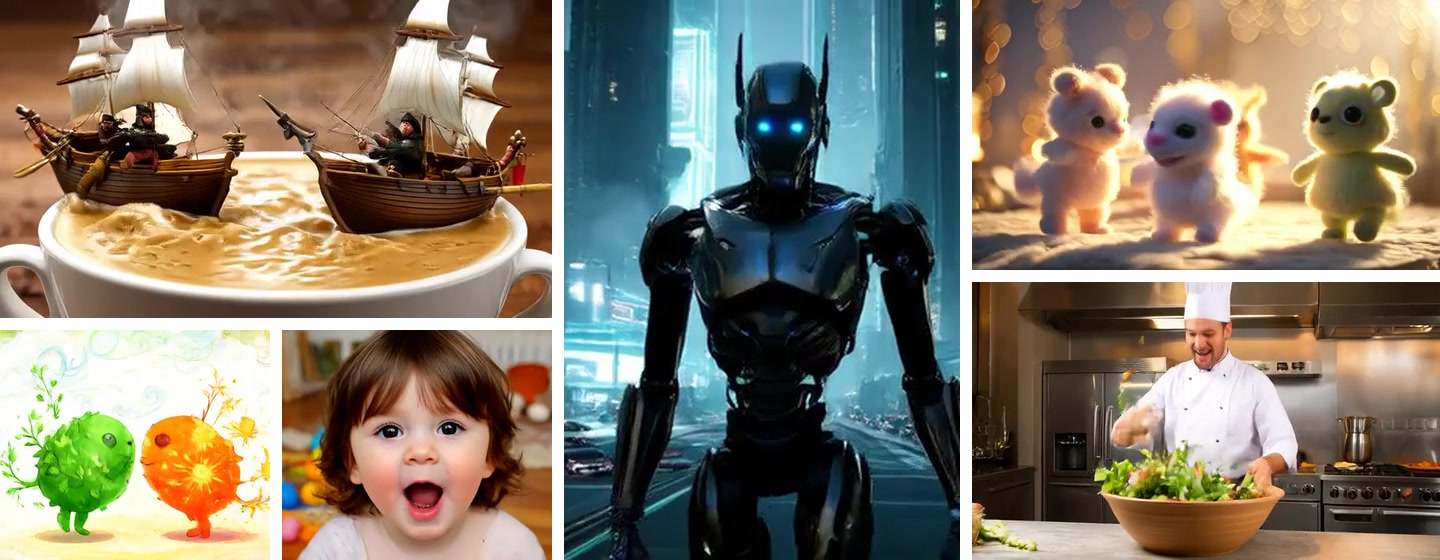
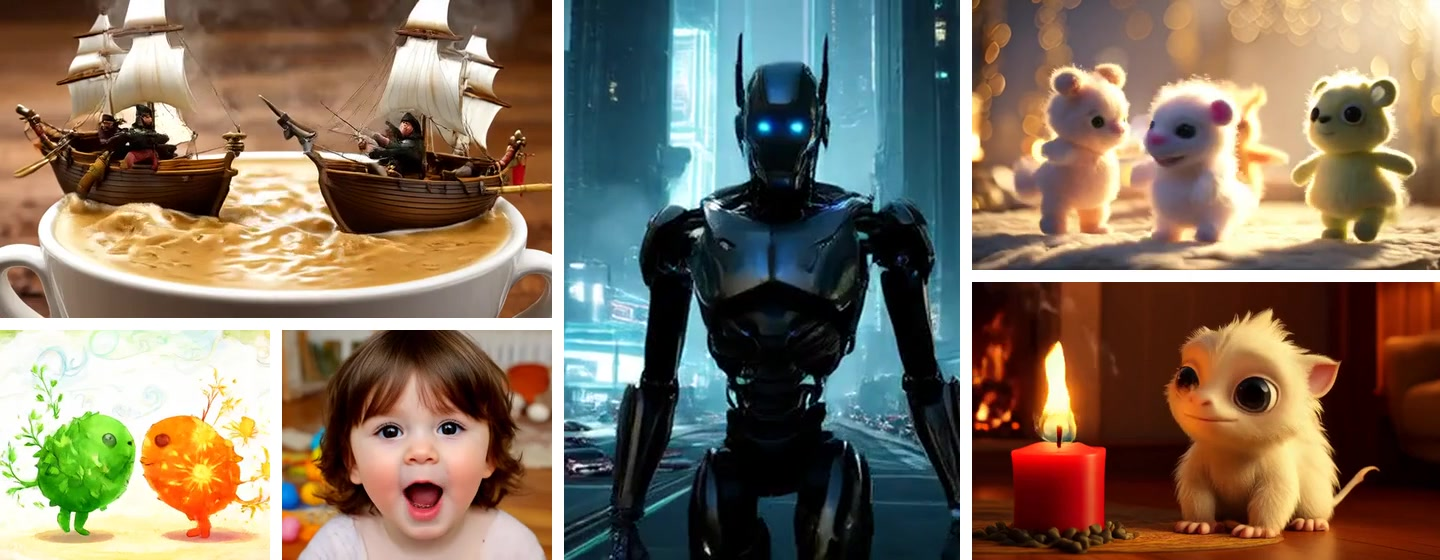
Feature candlelight creature in opening showcase [skip ci]

Changed region(s): [[0.6562, 0.4857, 1.0, 1.0]]

diff --git a/project-page/index.html b/project-page/index.html
@@ -45,11 +45,11 @@
       </div>
       <figure class="showcase" aria-label="Selected AGF generations">
         <div class="showcase-media">
-          <video id="showcase-video" muted loop playsinline preload="none" width="1440" height="560" poster="assets/showcase/agf-scenes.jpg?v=887aedf6" data-src="assets/showcase/agf-scenes.mp4?v=42d7a8df" aria-label="AGF video mosaic: coffee-cup pirate ships, a neon city robot, dancing felt creatures, a chef, a watercolor dance and a yawning child."></video>
+          <video id="showcase-video" muted loop playsinline preload="none" width="1440" height="560" poster="assets/showcase/agf-scenes.jpg?v=51ca37ff" data-src="assets/showcase/agf-scenes.mp4?v=e69ff2bb" aria-label="AGF video mosaic: coffee-cup pirate ships, a neon city robot, dancing felt creatures, a creature by candlelight, a watercolor dance and a yawning child."></video>
           <button id="showcase-toggle" type="button" aria-label="Play showcase">Play</button>
         </div>
         <figcaption><p><strong>Generated with AGF.</strong> Selected video excerpts at original speed.</p><a href="#gallery">Watch full videos <span aria-hidden="true">↗</span></a></figcaption>
-        <noscript><p><a href="assets/showcase/agf-scenes.mp4?v=42d7a8df">Play the video showcase</a></p></noscript>
+        <noscript><p><a href="assets/showcase/agf-scenes.mp4?v=e69ff2bb">Play the video showcase</a></p></noscript>
       </figure>
       <div class="tldr"><span class="tldr-label">TL;DR</span><p>AGF mitigates error accumulation in few-step autoregressive video generation by training models to withstand <strong>adversarial history perturbations</strong>. Trained on only <strong class="keep-phrase">five-second rollouts</strong>, AGF sustains high-quality video generation for <strong>four minutes</strong>.</p></div>
       </div>

diff --git a/README.md b/README.md
@@ -12,7 +12,7 @@
 </div>
 
 <p><b>TL;DR</b> — AGF mitigates error accumulation in few-step autoregressive video generation by training models to withstand <b>adversarial history perturbations</b>. Trained on only <b>five-second rollouts</b>, AGF sustains high-quality video generation for <b>four minutes</b>.</p>
-<p align="center"><a href="https://shark-console.oss-cn-shanghai.aliyuncs.com/shuju/project/kv_reasoning/runs/AGF/reports/project-page/20261010-9024de6/index.html"><img src="project-page/assets/showcase/agf-scenes.gif" width="960" alt="AGF video mosaic: coffee-cup pirate ships, a neon city robot, dancing felt creatures, a chef, a watercolor dance and a yawning child."></a></p>
+<p align="center"><a href="https://shark-console.oss-cn-shanghai.aliyuncs.com/shuju/project/kv_reasoning/runs/AGF/reports/project-page/20261010-9024de6/index.html"><img src="project-page/assets/showcase/agf-scenes.gif" width="960" alt="AGF video mosaic: coffee-cup pirate ships, a neon city robot, dancing felt creatures, a creature by candlelight, a watercolor dance and a yawning child."></a></p>
 <p align="center"><b>Generated with AGF.</b> Selected video excerpts at original speed.<br><a href="https://shark-console.oss-cn-shanghai.aliyuncs.com/shuju/project/kv_reasoning/runs/AGF/reports/project-page/20261010-9024de6/index.html#gallery">Watch the full videos and comparisons ↗</a></p>
 
 ## Method
